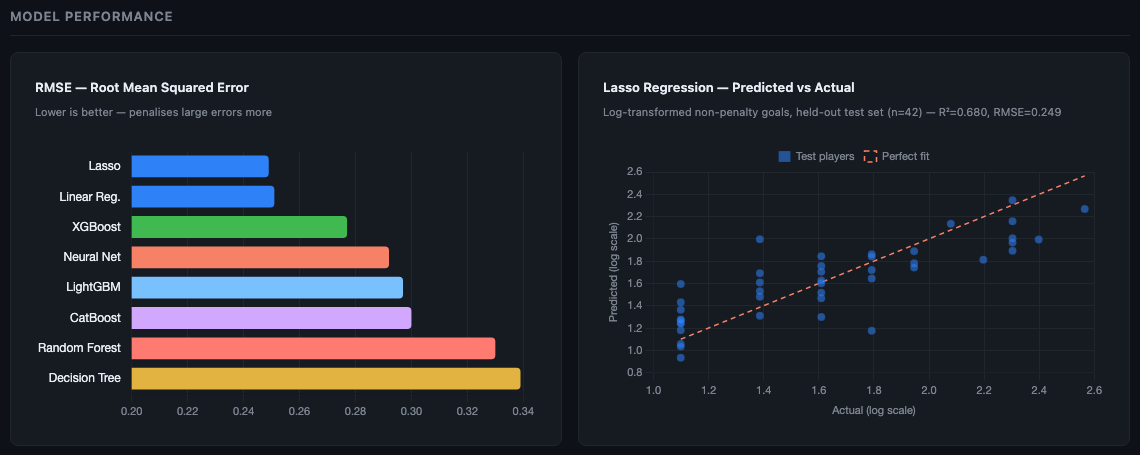
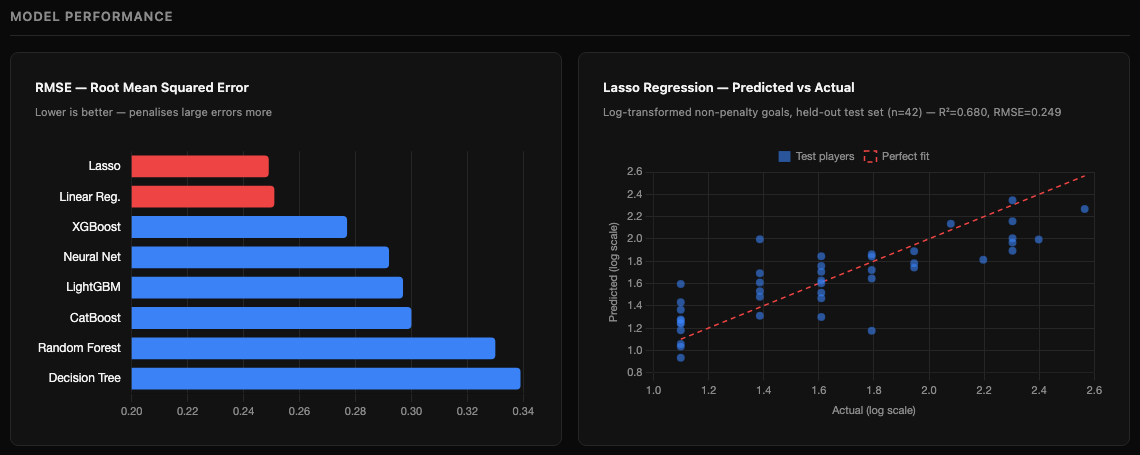
Centre the timeline dots on the line; refresh the SPM thumbnail
The dots sat 2px left of the timeline and 2px below the year's midline.
The SPM screenshot now matches that dashboard's new black/red/blue palette.

Changed region(s): [[0.0921, 0.3385, 0.4605, 0.8615]]

diff --git a/css/about.css b/css/about.css
@@ -69,8 +69,10 @@
 
 .timeline-dot {
   position: absolute;
-  left: -2.5rem;
-  top: 0.4rem;
+  /* centre the dot on the container's left border and on the date's line box */
+  left: calc(-2rem - 1px);
+  top: 4.5px;
+  transform: translateX(-50%);
   width: 10px;
   height: 10px;
   border-radius: 50%;
@@ -229,5 +231,8 @@
   }
   .timeline-date {
     font-size: 0.9rem;
+  }
+  .timeline-dot {
+    top: 4px;
   }
 }
